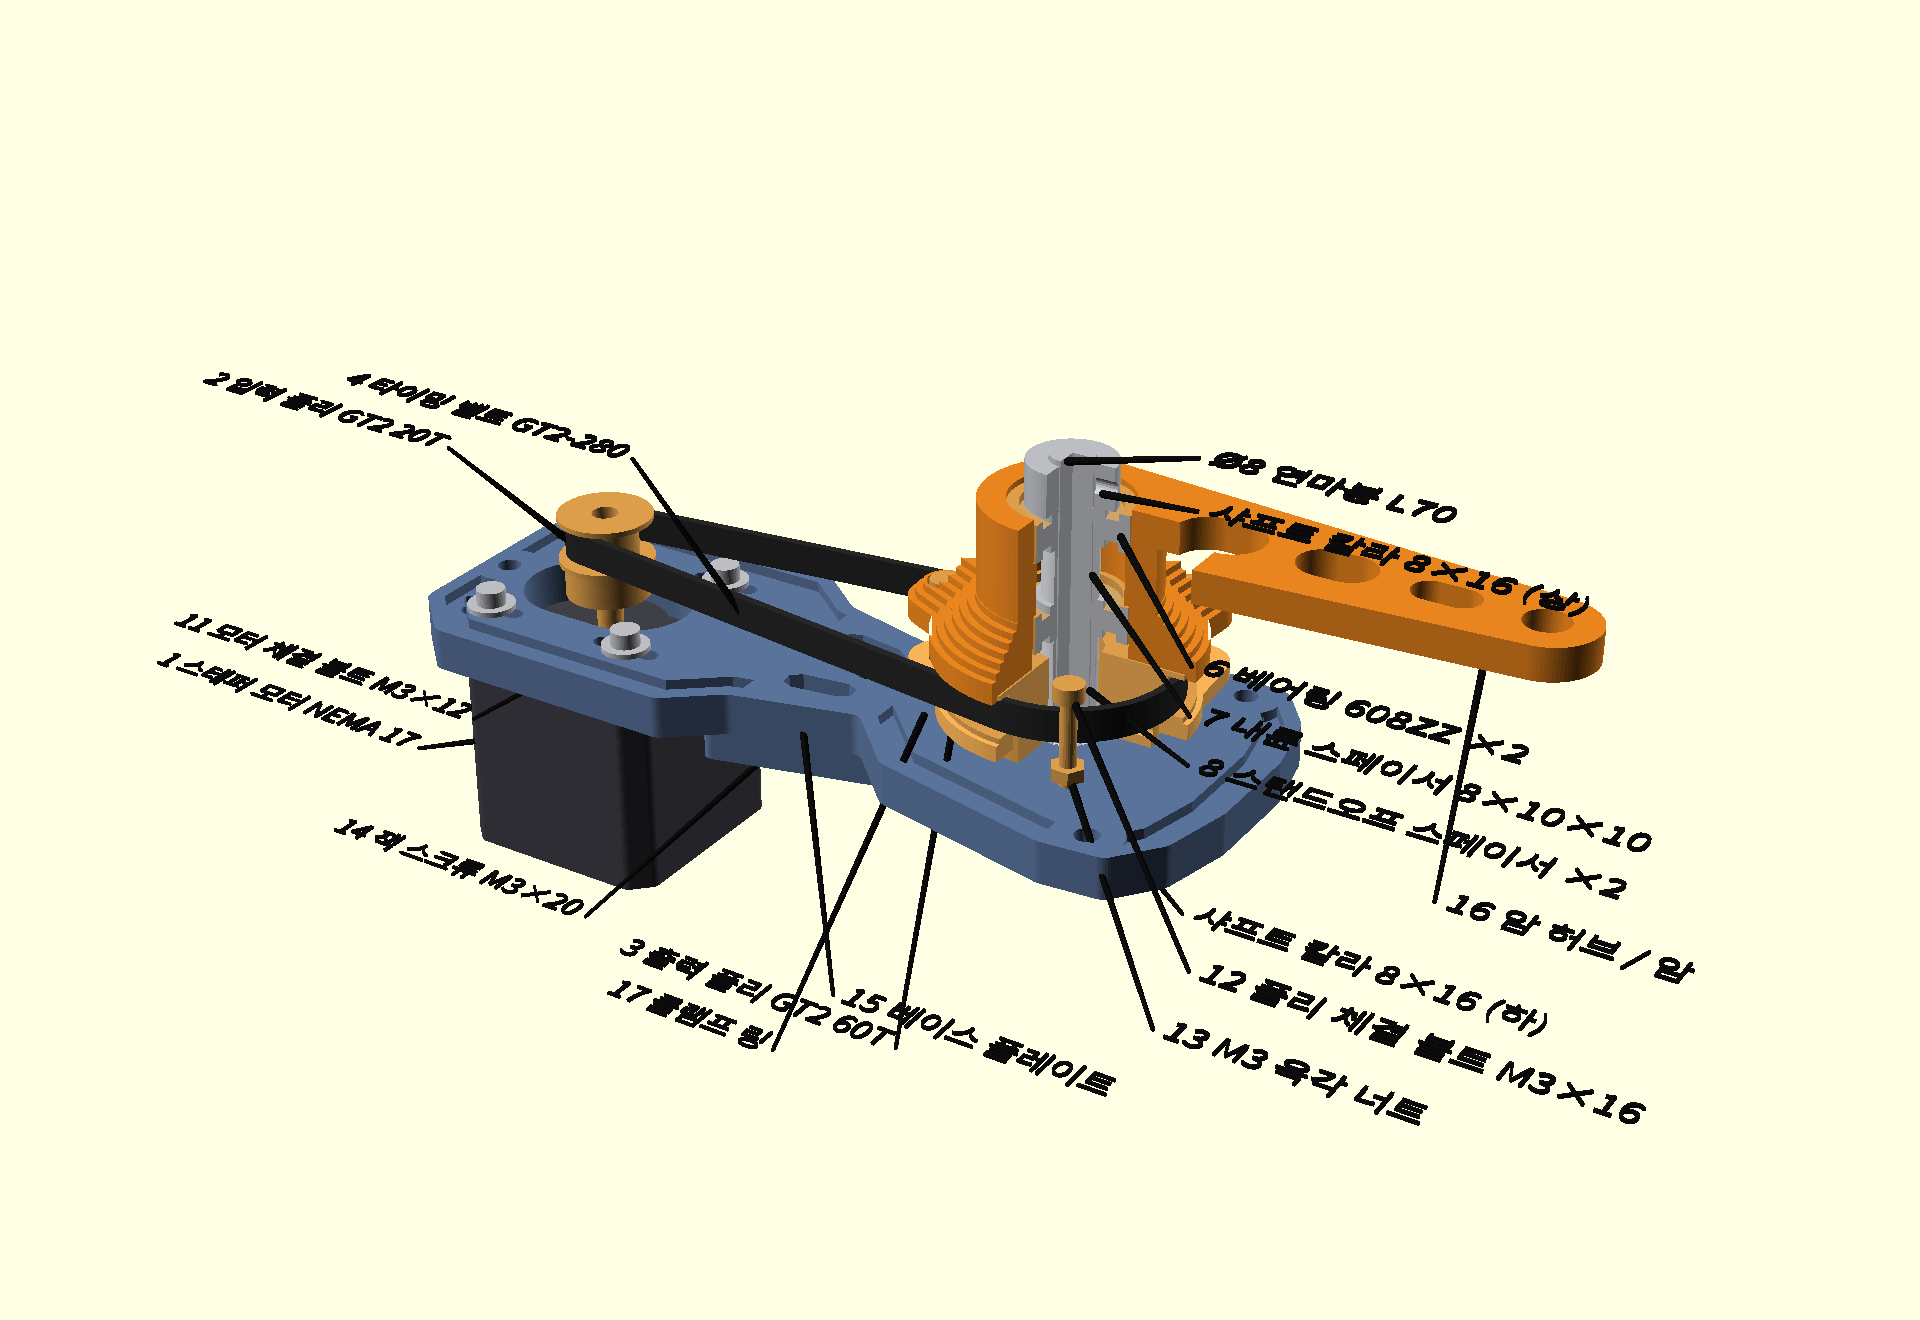
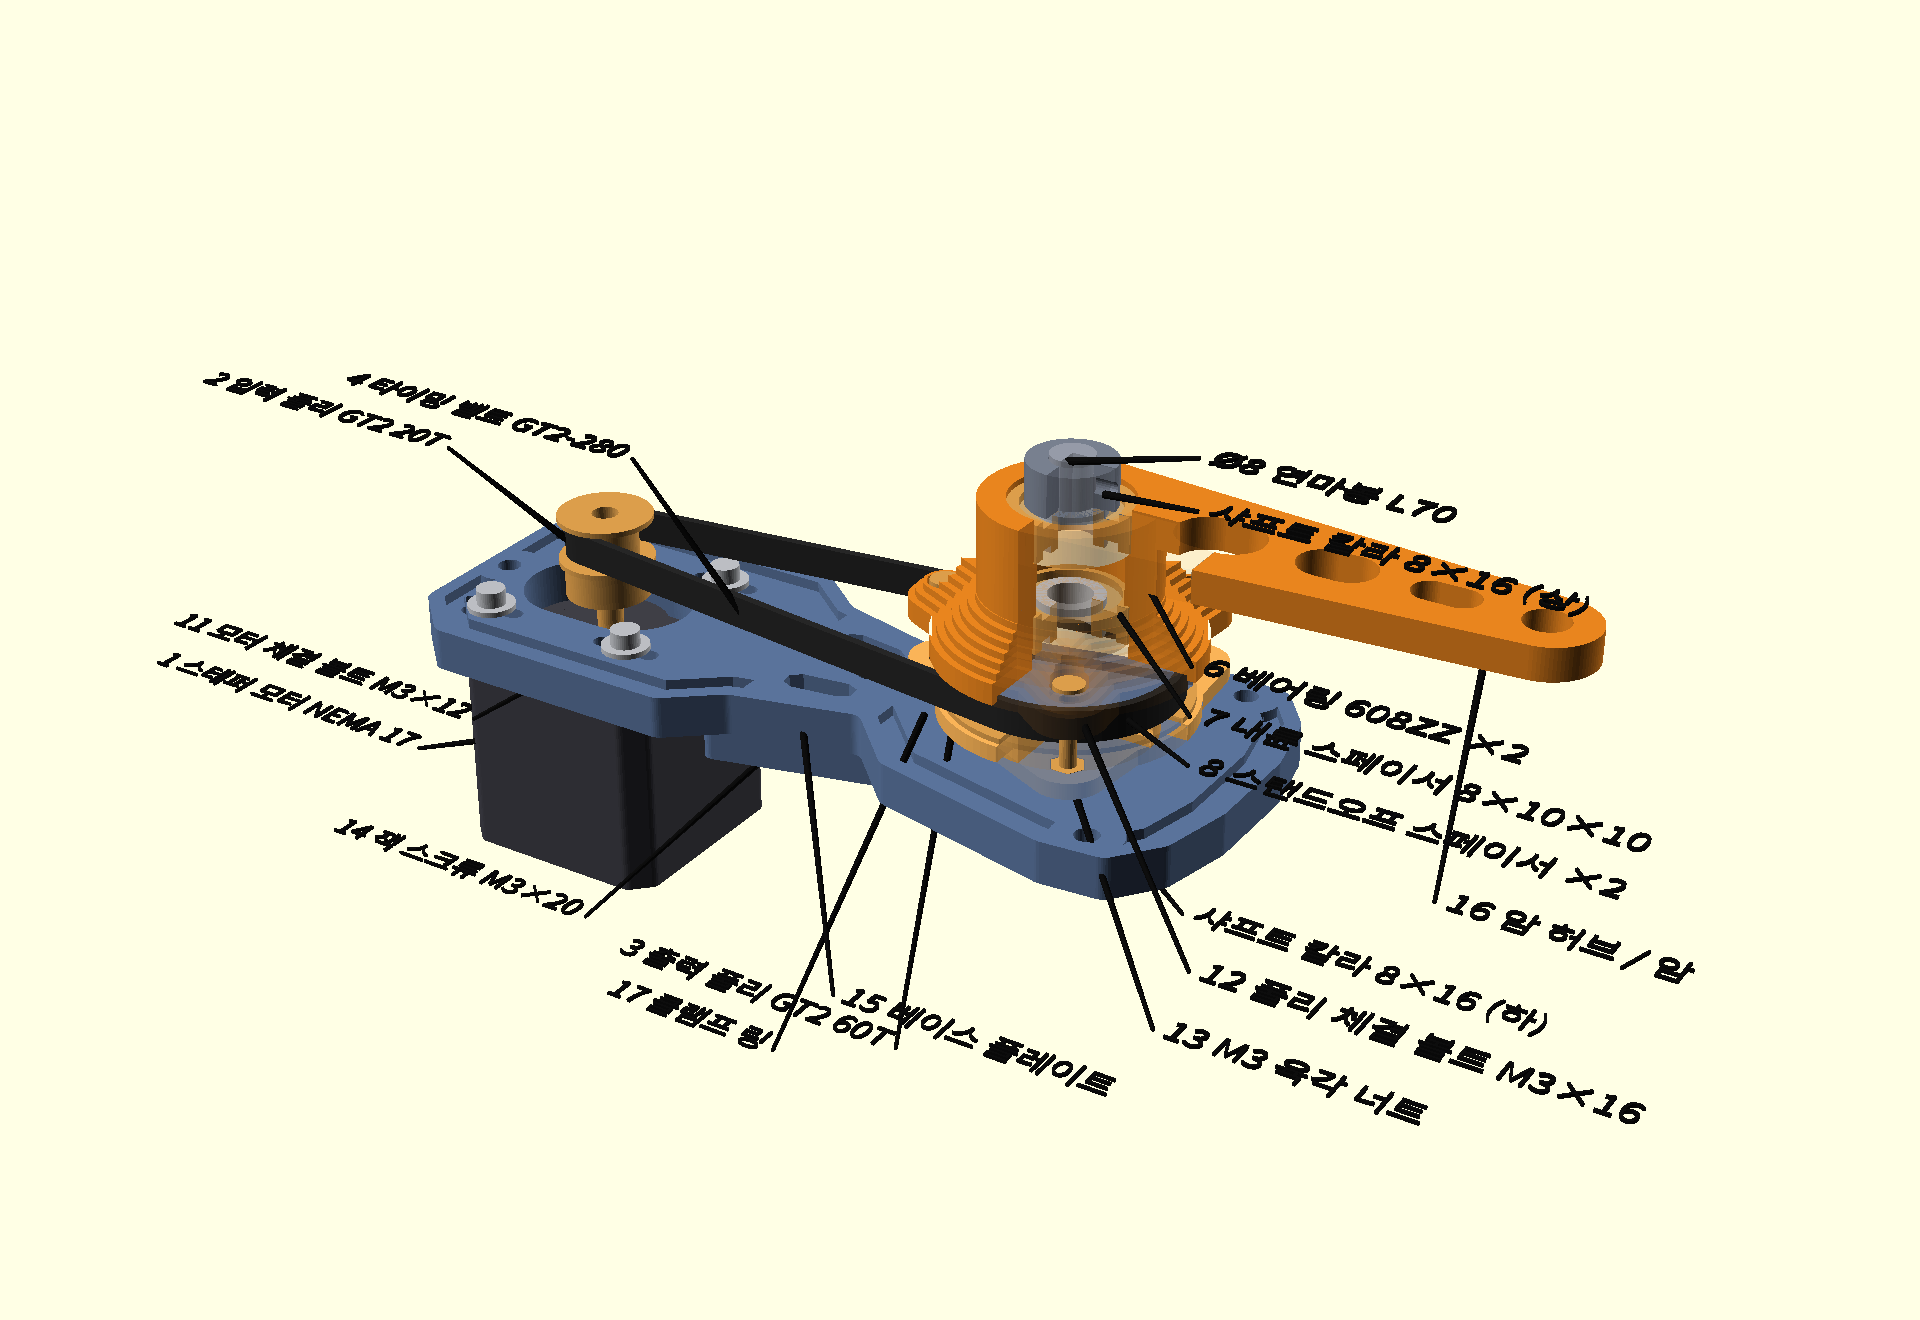
축 계통 톤온톤 + 1/4 단면을 반투명 고스트로 변경
- 축 계통 색 세분: 너트/칼라(진회색) < 축(중회색) < 내륜 < 스페이서 < 와셔(밝음), 심=청회색
- tinted() 헬퍼 + $ghost_alpha 동적 전파로 부품 내부 색을 투명도와 함께 적용
- cutaway(): 1/4 절단 대신 불투명 3/4 + 반투명 1/4 고스트, 부품별 투명도 차등
- 변형 3종 렌더 갱신

https://claude.ai/code/session_014RXXExQczonAJzcw2caz8Y

Changed region(s): [[0.5, 0.3106, 0.625, 0.6212]]

diff --git a/DESIGN.md b/DESIGN.md
@@ -118,7 +118,9 @@
 `scad/` 조립 모델과 렌더 이미지는 **회전부를 주황 계열, 고정부를 블루/그레이 계열**로 구분합니다.
 
 * 주황(회전) — 암 허브/암, 출력 풀리, 클램프 링, 클램프 볼트·너트, 베어링 **외륜**·실드, 입력 풀리, 모터 축
-* 블루/그레이(고정) — 베이스 플레이트, 스트리퍼 볼트, 스페이서, 심·평와셔, 베어링 **내륜**, M6 너트, 모터 몸체, 모터 체결 볼트, 잭 스크류
+* 블루/그레이(고정) — 베이스 플레이트, 축 계통, 베어링 **내륜**, 모터 몸체, 모터 체결 볼트, 잭 스크류
+* 축 계통은 스틸 계열 **톤온톤**으로 세분: 너트·샤프트 칼라(진회색) < 축(중회색) < 내륜 < 스페이서(밝은 알루) < 평와셔(거의 흰색), 심 와셔는 청회색
+* 조립 렌더의 1/4 사분면은 잘라내지 않고 **반투명 고스트**로 표시합니다(부품별 투명도 차등 — 겉을 감싸는 큰 부품일수록 투명). `assembly.scad`의 `ghost_alpha` 및 `cutaway()`의 `ga` 인자로 조절.
 
 베어링이 두 색으로 갈리는 것이 이 관절의 핵심입니다 — 내륜 계통은 볼트로 압축된 고정 적층이고, 외륜+허브만 회전합니다.
 
